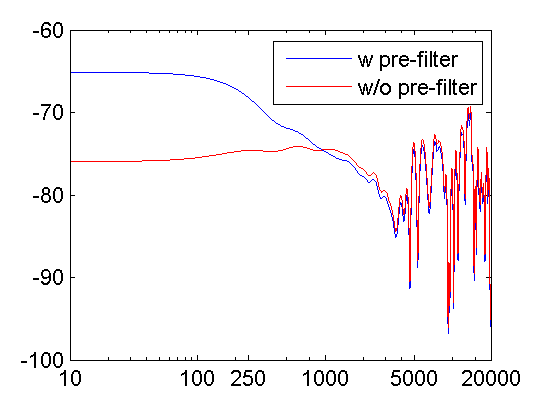
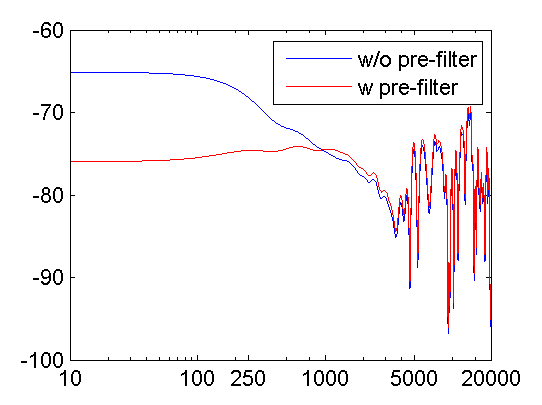
Fixed a typo

Changed region(s): [[0.679, 0.1185, 0.8856, 0.237]]

diff --git a/doc/generate_doc_plots.m b/doc/generate_doc_plots.m
@@ -117,7 +117,7 @@ figsize(conf.plot.size(1),conf.plot.size(2),conf.plot.size_unit);
 semilogx(f,20*log10(a1),'-b',f,20*log10(a2),'-r');
 axis([10 20000 -100 -60]);
 set(gca,'XTick',[10 100 250 1000 5000 20000]);
-legend('w pre-filter','w/o pre-filter');
+legend('w/o pre-filter','w pre-filter');
 print_png('img/impulse_response_wfs_25d.png');
 
 
